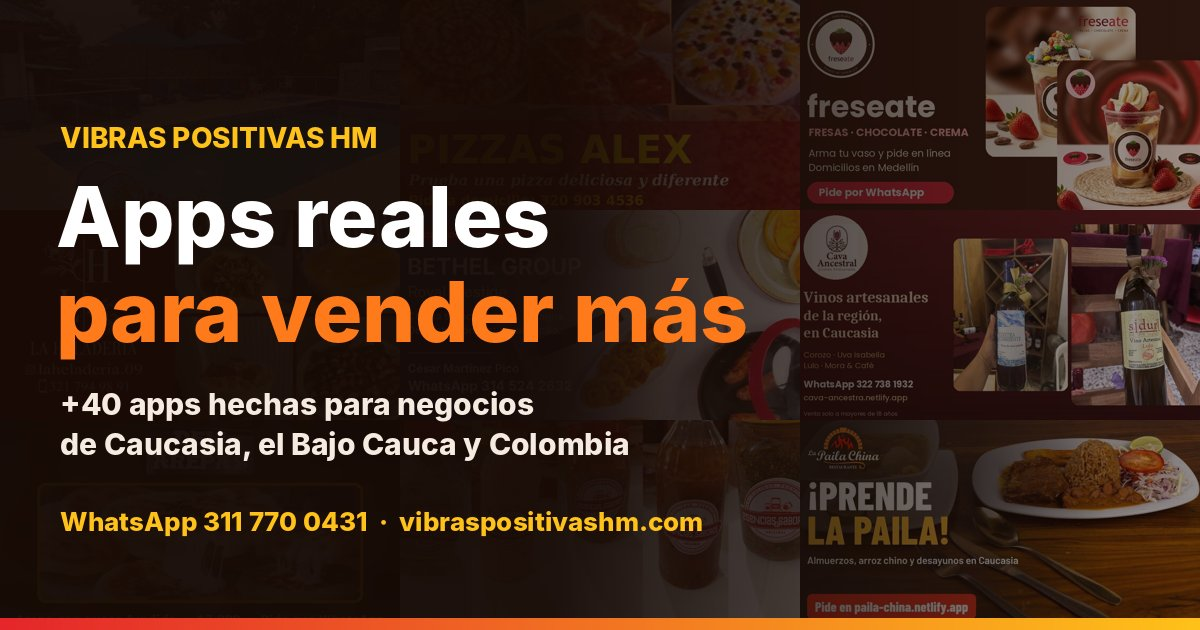
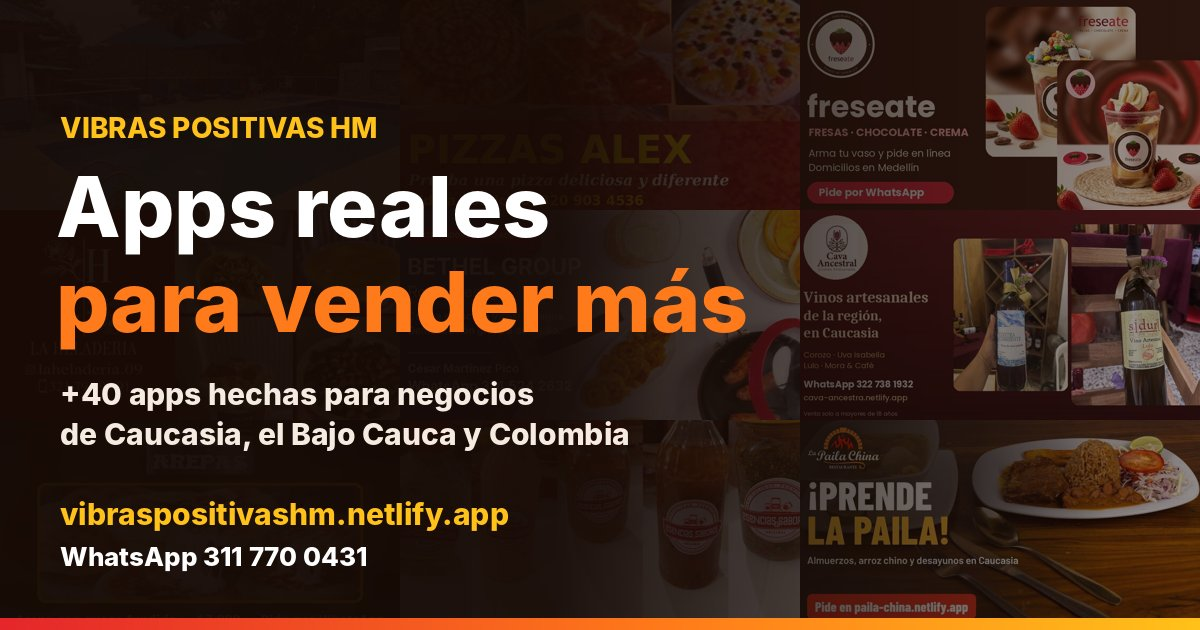
Dirección vibraspositivashm.netlify.app, imagen de Papelería Digital, vista previa y flyer
Claude-Session: https://claude.ai/code/session_01Qv96KWL4TigELNKXGFYseq

diff --git a/index.html b/index.html
@@ -5,19 +5,19 @@
 <meta name="viewport" content="width=device-width, initial-scale=1.0, viewport-fit=cover">
 <title>Vibras Positivas HM · Apps reales para vender más</title>
 <meta name="description" content="Apps, catálogos con pedidos por WhatsApp, citas, papelería digital y apps administrativas para negocios de Caucasia, el Bajo Cauca y Colombia. Más de 40 apps hechas.">
-<link rel="canonical" href="https://vibras-positivas-hm.netlify.app/">
+<link rel="canonical" href="https://vibraspositivashm.netlify.app/">
 <meta name="theme-color" content="#160a05">
 
 <!-- Vista previa al compartir (Open Graph / Twitter) -->
 <meta property="og:type" content="website">
-<meta property="og:url" content="https://vibras-positivas-hm.netlify.app/">
+<meta property="og:url" content="https://vibraspositivashm.netlify.app/">
 <meta property="og:title" content="Vibras Positivas HM · Apps reales para vender más">
 <meta property="og:description" content="Más de 40 apps hechas para negocios de Caucasia, el Bajo Cauca y Colombia. Cotiza la tuya por WhatsApp.">
-<meta property="og:image" content="https://vibras-positivas-hm.netlify.app/og-vibras.jpg">
+<meta property="og:image" content="https://vibraspositivashm.netlify.app/og-vibras.jpg">
 <meta name="twitter:card" content="summary_large_image">
 <meta name="twitter:title" content="Vibras Positivas HM · Apps reales para vender más">
 <meta name="twitter:description" content="Más de 40 apps hechas para negocios de Caucasia, el Bajo Cauca y Colombia. Cotiza la tuya por WhatsApp.">
-<meta name="twitter:image" content="https://vibras-positivas-hm.netlify.app/og-vibras.jpg">
+<meta name="twitter:image" content="https://vibraspositivashm.netlify.app/og-vibras.jpg">
 <meta property="og:image:width" content="1200">
 <meta property="og:image:height" content="630">
 <meta property="og:locale" content="es_CO">
@@ -291,7 +291,7 @@ footer strong{color:var(--cream)}
     <div class="svc-grid">
       <article class="svc rv"><img loading="lazy" src="https://pizza-alex.netlify.app/img/og-pizzas-alex.jpg" alt=""><div class="in"><div class="num">01</div><h3 data-i="s1t">Apps para vender</h3><p data-i="s1p">Tu catálogo con fotos, precios y carrito. El pedido le llega armado a tu WhatsApp.</p></div></article>
       <article class="svc rv"><img loading="lazy" src="https://haroldco45.github.io/cita-unas/og-image.png" alt=""><div class="in"><div class="num">02</div><h3 data-i="s2t">Citas y reservas</h3><p data-i="s2p">Tus clientes ven los horarios libres y separan solos. Tú ves la agenda del día.</p></div></article>
-      <article class="svc rv"><img loading="lazy" src="https://papeleria-vibras.netlify.app/og-image.png" alt=""><div class="in"><div class="num">03</div><h3 data-i="s3t">Papelería digital</h3><p data-i="s3p">Remisiones, recibos, cotizaciones y documentos con consecutivo. Deja de pagar talonarios.</p></div></article>
+      <article class="svc rv"><img loading="lazy" src="img/papeleria.jpg" alt=""><div class="in"><div class="num">03</div><h3 data-i="s3t">Papelería digital</h3><p data-i="s3p">Remisiones, recibos, cotizaciones y documentos con consecutivo. Deja de pagar talonarios.</p></div></article>
       <article class="svc rv"><img loading="lazy" src="https://tendero-pos.netlify.app/og-image.png" alt=""><div class="in"><div class="num">04</div><h3 data-i="s4t">Apps administrativas</h3><p data-i="s4p">Caja, inventario, fiados, cartera, pedidos y reportes para tu equipo de ventas.</p></div></article>
       <article class="svc rv"><img loading="lazy" src="https://active-english-academ.netlify.app/img/og.jpg" alt=""><div class="in"><div class="num">05</div><h3 data-i="s5t">Academias y capacitación</h3><p data-i="s5p">Cursos, inscripciones y material de estudio en una app que tus estudiantes instalan.</p></div></article>
       <article class="svc rv"><img loading="lazy" src="https://pronalce-navidad.netlify.app/img/og.jpg" alt=""><div class="in"><div class="num">06</div><h3 data-i="s6t">Promociones y lanzamientos</h3><p data-i="s6p">Apps de temporada para proveedores y distribuidoras: ofertas, códigos y pedido al vendedor.</p></div></article>
@@ -343,7 +343,7 @@ footer strong{color:var(--cream)}
         </ul>
         <a class="btn" href="https://papeleria-vibras.netlify.app/" target="_blank" rel="noopener" data-i="bdB">Ver Papelería Digital</a>
       </div>
-      <img loading="lazy" src="https://papeleria-vibras.netlify.app/og-image.png" alt="Papelería Digital">
+      <img loading="lazy" src="img/papeleria.jpg" alt="Papelería Digital">
     </div>
   </div>
 </section>
@@ -492,7 +492,7 @@ const PRODS = [
  {n:'Fiado', es:'Cuaderno digital del tendero: quién debe, cuánto y recordatorio por WhatsApp.', en:'Digital credit book: who owes, how much, with WhatsApp reminders.', u:'https://haroldco45.github.io/fiado-cuadernodigitaldeltendero/', i:'https://haroldco45.github.io/fiado-cuadernodigitaldeltendero/tendero-fiado-og.png'},
  {n:'Citas en línea', es:'Agenda para uñas, barberías, spa y consultorios: el cliente separa solo.', en:'Booking for nail salons, barbers, spas and offices: clients book themselves.', u:'https://cita-unas.netlify.app/', i:'https://haroldco45.github.io/cita-unas/og-image.png'},
  {n:'Precios al Día', es:'Lista de precios desde Excel para varios negocios, cada uno con su enlace.', en:'Price list from Excel for several stores, each with its own link.', u:'', i:'https://precios-andres.netlify.app/og-image.png'},
- {n:'Papelería Digital', es:'Remisiones, recibos y cotizaciones con consecutivo y tu logo.', en:'Delivery notes, receipts and quotes with numbering and your logo.', u:'https://papeleria-vibras.netlify.app/', i:'https://papeleria-vibras.netlify.app/og-image.png'},
+ {n:'Papelería Digital', es:'Remisiones, recibos y cotizaciones con consecutivo y tu logo.', en:'Delivery notes, receipts and quotes with numbering and your logo.', u:'https://papeleria-vibras.netlify.app/', i:'img/papeleria.jpg'},
  {n:'Estados Financieros Fácil', es:'Aprende y arma los 4 estados financieros de tu negocio.', en:'Learn and build your business\'s 4 financial statements.', u:'https://haroldco45.github.io/estados-financieros/', i:'https://haroldco45.github.io/estados-financieros/og-image.png'}
 ];
 const PRIVATE = ['Portal Vendedor Distrileco','Portal Gerencial','Portal de Recaudos','Tienda Distrileco','Documento equivalente Distrileco','Torneo de Goles 2026','Concurso Mundial 2026','Natillera La Fortuna','CDA Bajo Cauca','Criollitas · menú digital','Entrenador Deportivo Online'];

diff --git a/sw.js b/sw.js
@@ -1,6 +1,6 @@
 // Vibras Positivas HM — service worker. Sube la versión cada vez que cambies index.html
-const V = 'vibras-hm-v2026-11-09';
-const SHELL = ['/', '/index.html', '/manifest.json', '/icon-192.png', '/icon-512.png', '/media/hero-poster.jpg', '/og-vibras.jpg'];
+const V = 'vibras-hm-v2026-11-09b';
+const SHELL = ['/', '/index.html', '/manifest.json', '/icon-192.png', '/icon-512.png', '/media/hero-poster.jpg', '/og-vibras.jpg', '/img/papeleria.jpg'];
 self.addEventListener('install', e => { e.waitUntil(caches.open(V).then(c => c.addAll(SHELL)).then(() => self.skipWaiting())); });
 self.addEventListener('activate', e => { e.waitUntil(caches.keys().then(ks => Promise.all(ks.filter(k => k !== V).map(k => caches.delete(k)))).then(() => self.clients.claim())); });
 self.addEventListener('fetch', e => {
